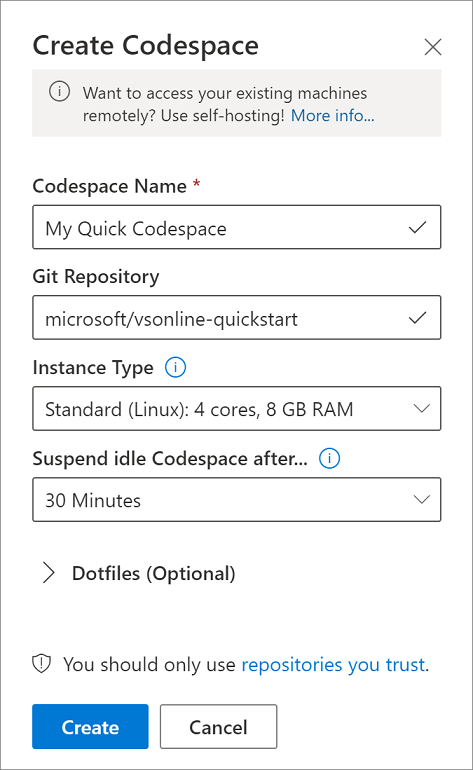
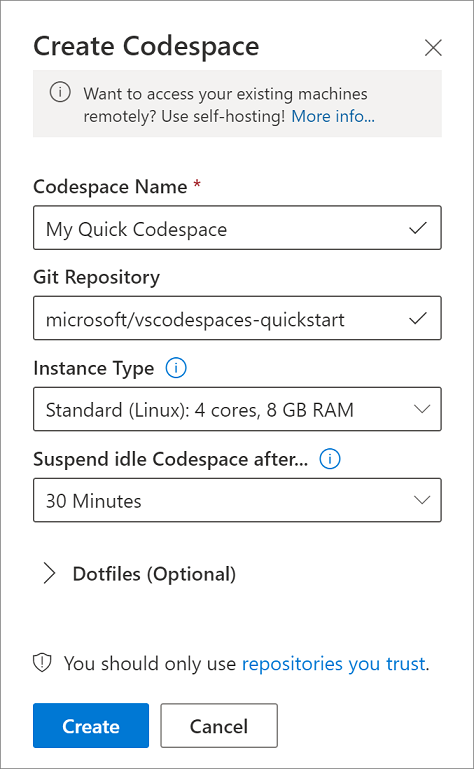
Update quickstart sample repo name

diff --git a/vs-online/quickstarts/vscode.md b/vs-online/quickstarts/vscode.md
@@ -40,7 +40,7 @@ To create a new cloud-hosted environment in Codespaces select the **Create New E
 Answer the prompts with the following information:
 
 - **Name**: My Quick Environment
-- **Git Repository**: microsoft/vsonline-quickstart
+- **Git Repository**: microsoft/vscodespaces-quickstart
 - **Auto-suspend Setting**: 30 minutes
 - **Azure Subscription**: Select any Azure subscription to create a Codespaces plan in
 - **Instance Type**: Standard Environment (Linux)

diff --git a/vs-online/quickstarts/browser.md b/vs-online/quickstarts/browser.md
@@ -59,7 +59,7 @@ To create a new cloud-hosted codespace, fill in the **Create Codespace** form. T
 Complete the form with the following values:
 
 - **Codespace Name**: My Quick Codespace
-- **Git Repository**: microsoft/vsonline-quickstart
+- **Git Repository**: microsoft/vscodespaces-quickstart
 - **Instance Type**: Standard (Linux)
 - **Suspend idle Codespace after...**: 30 minutes
 
